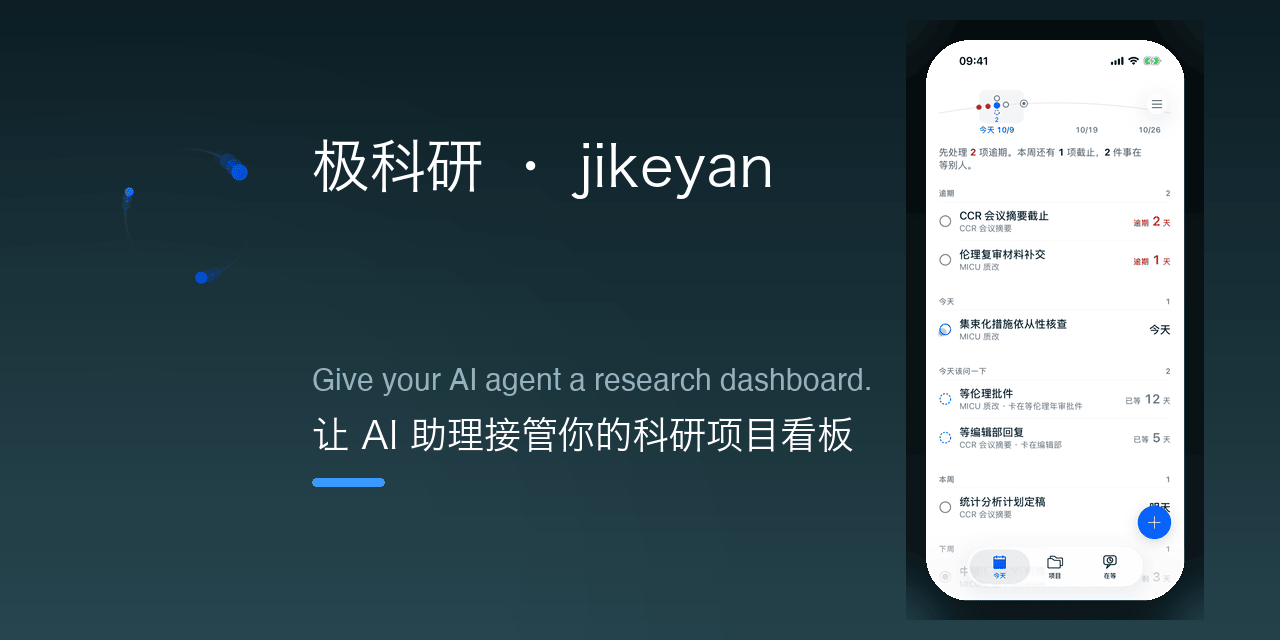
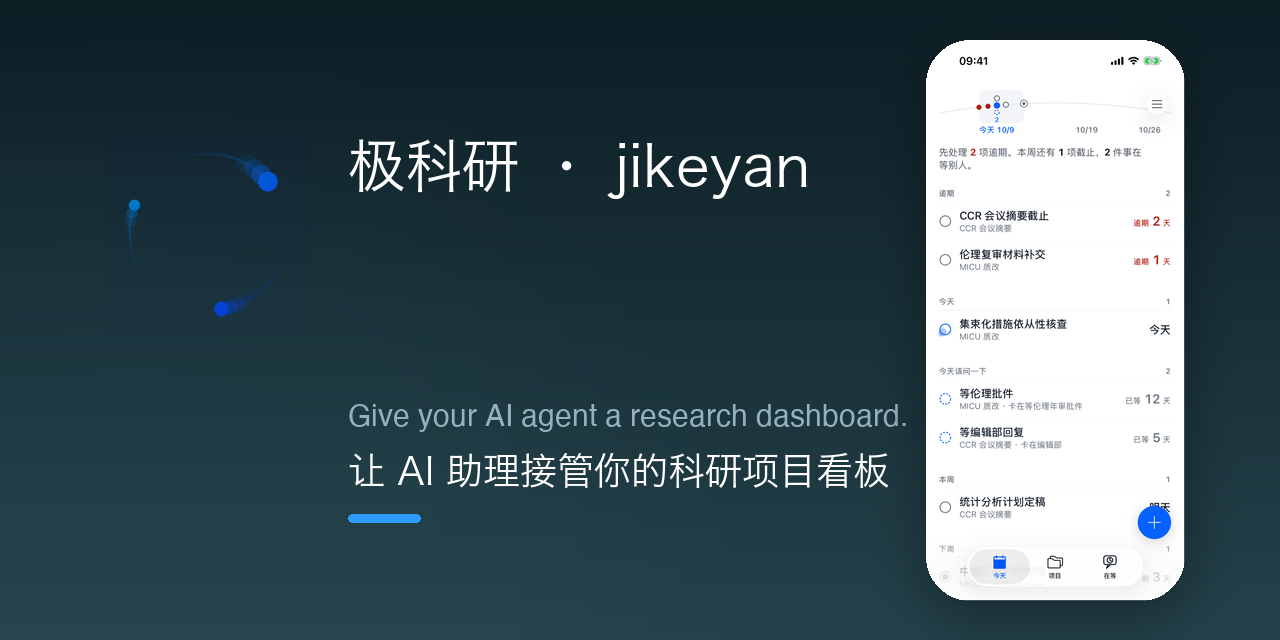
docs: polish social preview — no box shadow, larger orbit mark, reproducible script
Phone mock now sits directly on the gradient: shadow is the phone's own
rounded silhouette (alpha 90, blur 26, +16y offset), solid core hidden
behind the phone so only a soft fringe shows — the old expanded slab
(alpha 160, +20px all around) read as a hard-edged rectangle. Logo orbit
mark enlarged 172->208 and color-to-alpha floor lowered 0.12->0.06 so the
orbit ring survives; it now reads as one lockup left of the title.
Generator copied from /tmp/social_preview.py to scripts/social_preview.py
with repo-relative asset paths; docs regen stub points at it.

diff --git a/scripts/social_preview.py b/scripts/social_preview.py
@@ -1,0 +1,125 @@
+"""Regenerate jikeyan-agent-skill social preview (1280x640).
+
+Layout: dark-teal gradient bg + soft accent circle, transparent logo composited
+directly (no white box), brand title, one EN line, one CN line (项目 wording),
+today.png as a rounded phone mock on the right.
+
+The phone sits directly on the gradient background: the shadow is the same
+rounded-rect silhouette as the phone itself (hidden behind it, only the blurred
+fringe shows) plus a small downward offset — no expanded slab, hence no
+hard-edged rectangle. Run: ``python3 scripts/social_preview.py``.
+
+Inputs (repo assets only): ``assets/logo.png``,
+``assets/screenshots/today.png``. Output: ``assets/social-preview.png``.
+Fonts come from the OS (macOS Hiragino/Helvetica; on Linux install Noto Sans
+CJK — see docs/distribution.md §5).
+"""
+
+from pathlib import Path
+
+from PIL import Image, ImageDraw, ImageFilter
+
+W, H = 1280, 640
+BG_TOP = (13, 30, 37)
+BG_BOT = (37, 66, 75)
+ACCENT = (46, 155, 255)          # app blue, accents only
+INK = (255, 255, 255)
+MUTED = (148, 178, 190)
+
+REPO = Path(__file__).resolve().parent.parent
+LOGO_SRC = REPO / "assets" / "logo.png"
+SHOT_SRC = REPO / "assets" / "screenshots" / "today.png"
+OUT = REPO / "assets" / "social-preview.png"
+
+HI = "/System/Library/Fonts/Hiragino Sans GB.ttc"
+HE = "/System/Library/Fonts/Helvetica.ttc"
+
+
+def font(path, size, face=0):
+    from PIL import ImageFont
+
+    return ImageFont.truetype(path, size, index=face)
+
+
+# --- background: vertical gradient + soft circle accent (echoes old card)
+bg = Image.new("RGB", (W, H))
+px = bg.load()
+for y in range(H):
+    t = y / (H - 1)
+    px_line = tuple(int(BG_TOP[i] + (BG_BOT[i] - BG_TOP[i]) * t) for i in range(3))
+    for x in range(W):
+        px[x, y] = px_line
+glow = Image.new("L", (W, H), 0)
+d = ImageDraw.Draw(glow)
+d.ellipse([-320, 180, 620, 1120], fill=26)   # bottom-left lift, like the old arc
+glow = glow.filter(ImageFilter.GaussianBlur(90))
+lift = Image.new("RGB", (W, H), (58, 104, 114))
+bg = Image.composite(lift, bg, glow)
+
+import numpy as np
+
+
+def white_to_alpha(img):
+    """GIMP-style color-to-alpha against white: drops the near-white paper
+    while keeping saturated marks solid. Floor 0.06 keeps the pale orbit
+    trails faintly visible without leaving a paper veil (a box)."""
+    a = np.asarray(img.convert("RGB")).astype(np.float32) / 255.0
+    m = a.min(axis=2, keepdims=True)
+    alpha = 1.0 - m
+    rgb = np.where(alpha > 1e-3, (a - m) / np.maximum(alpha, 1e-3), 0.0)
+    raw = np.clip(alpha[..., 0], 0, 1) ** 0.62
+    out = np.dstack([np.clip(rgb, 0, 1), np.clip((raw - 0.06) / 0.94, 0, 1)])
+    return Image.fromarray((out * 255).astype(np.uint8), "RGBA")
+
+
+# --- logo (opaque near-white paper -> transparent, no white box)
+logo = white_to_alpha(Image.open(LOGO_SRC))
+LOGO = 208  # enlarged so the orbit mark reads as one mark, not loose dots
+logo = logo.resize((LOGO, LOGO), Image.LANCZOS)
+LX, LY = 104, 128
+bg.paste(logo, (LX, LY), logo)
+
+# --- text block
+draw = ImageDraw.Draw(bg)
+f_title = font(HI, 62, face=1)
+f_en = font(HE, 30)
+f_cn = font(HI, 40, face=1)
+tx = LX + LOGO + 36
+draw.text((tx, LY + 8), "极科研 · jikeyan", font=f_title, fill=INK)
+draw.text((tx, LY + LOGO + 66), "Give your AI agent a research dashboard.",
+          font=f_en, fill=MUTED)
+draw.text((tx, LY + LOGO + 116), "让 AI 助理接管你的科研项目看板",
+          font=f_cn, fill=INK)
+# blue accent bar under CN line
+draw.rounded_rectangle([tx, LY + LOGO + 178, tx + 72, LY + LOGO + 186],
+                       radius=4, fill=ACCENT)
+
+# --- phone mock (today.png), rounded corners + soft fringe shadow + hairline
+shot = Image.open(SHOT_SRC).convert("RGB")
+PH = 560
+PW = round(PH * shot.width / shot.height)
+shot = shot.resize((PW, PH), Image.LANCZOS)
+mask = Image.new("L", (PW, PH), 0)
+ImageDraw.Draw(mask).rounded_rectangle([0, 0, PW, PH], radius=44, fill=255)
+PX, PY = W - 96 - PW, (H - PH) // 2
+# Shadow = same silhouette as the phone, blurred; the solid core hides behind
+# the phone so only a soft fringe shows — no expanded slab, no hard edges.
+SHADOW_ALPHA = 90
+SHADOW_BLUR = 26
+SHADOW_DX, SHADOW_DY = 0, 16
+core = Image.new("RGBA", (W, H), (0, 0, 0, 0))
+ImageDraw.Draw(core).rounded_rectangle(
+    [PX + SHADOW_DX, PY + SHADOW_DY,
+     PX + SHADOW_DX + PW, PY + SHADOW_DY + PH],
+    radius=44, fill=(0, 0, 0, SHADOW_ALPHA))
+halo = core.filter(ImageFilter.GaussianBlur(SHADOW_BLUR))
+bg = bg.convert("RGBA")
+bg.alpha_composite(halo)
+bg.paste(shot, (PX, PY), mask)
+edge = Image.new("RGBA", (W, H), (0, 0, 0, 0))
+ImageDraw.Draw(edge).rounded_rectangle([PX, PY, PX + PW, PY + PH], radius=44,
+                                       outline=(255, 255, 255, 46), width=2)
+bg.alpha_composite(edge)
+
+bg.convert("RGB").save(OUT)
+print("saved", OUT, bg.size)
